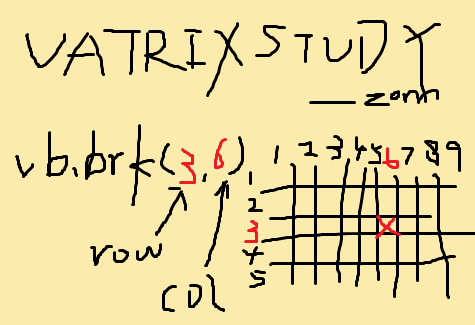
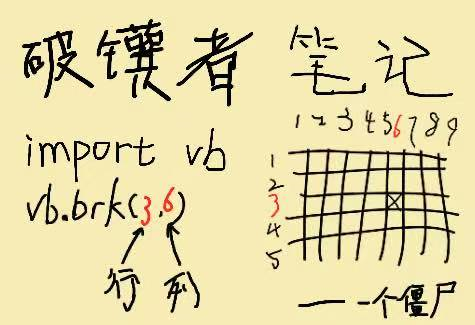
feat. 推剧情

Changed region(s): [[0.0295, 0.0308, 1.0, 0.9846], [0.0295, 0.4, 0.5305, 0.9846], [0.5305, 0.8308, 0.56, 0.8923]]

diff --git a/src/Lawn/CutScene.cpp b/src/Lawn/CutScene.cpp
@@ -761,8 +761,17 @@ void CutScene::StartLevelIntro()
 	{
 		isRestart = true;
 	}
+	
+	// vx: handle dave dialogue
+	if (aLevel == 50 && mApp->IsAdventureMode()) {
+		mCrazyDaveDialogStart = 9000;
+	}
+	else if (aLevel == 51 && mApp->IsAdventureMode())
+	{
+		mCrazyDaveDialogStart = 9100;
+	}
 
-	if (mApp->IsFirstTimeAdventureMode() && aLevel == 11)
+	else if (mApp->IsFirstTimeAdventureMode() && aLevel == 11)
 	{
 		mCrazyDaveDialogStart = 201;
 	}
